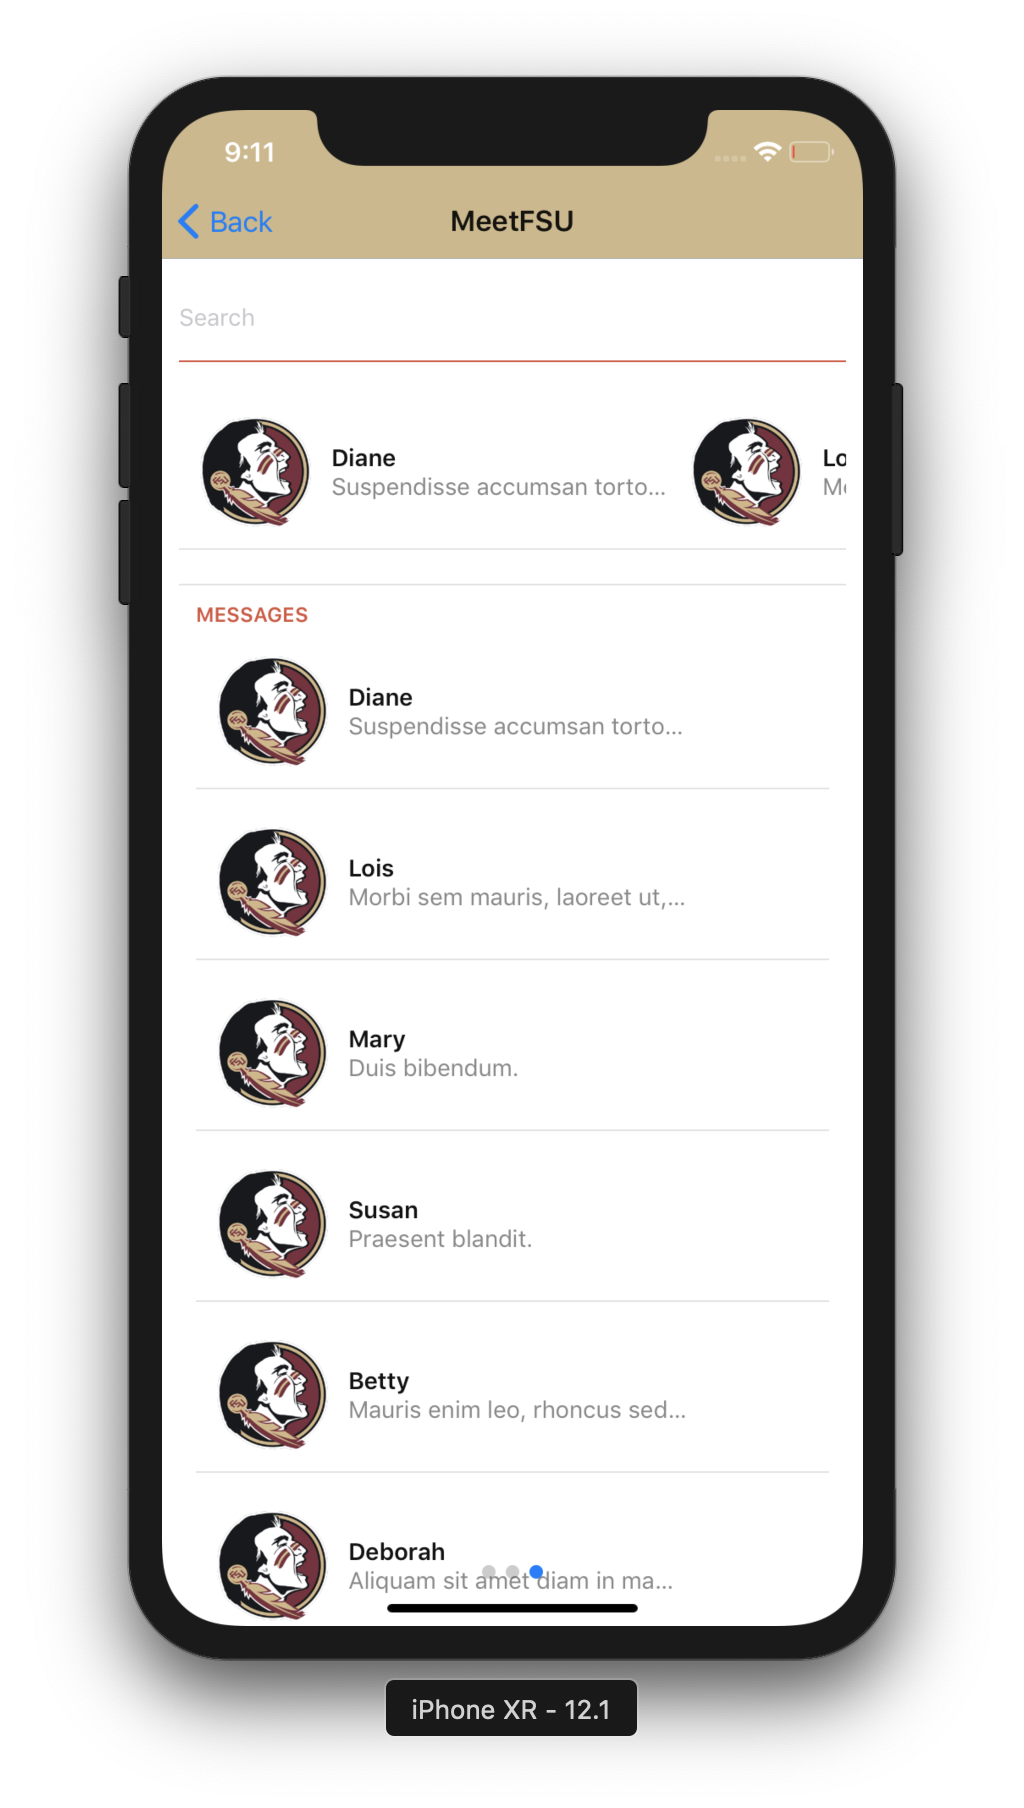
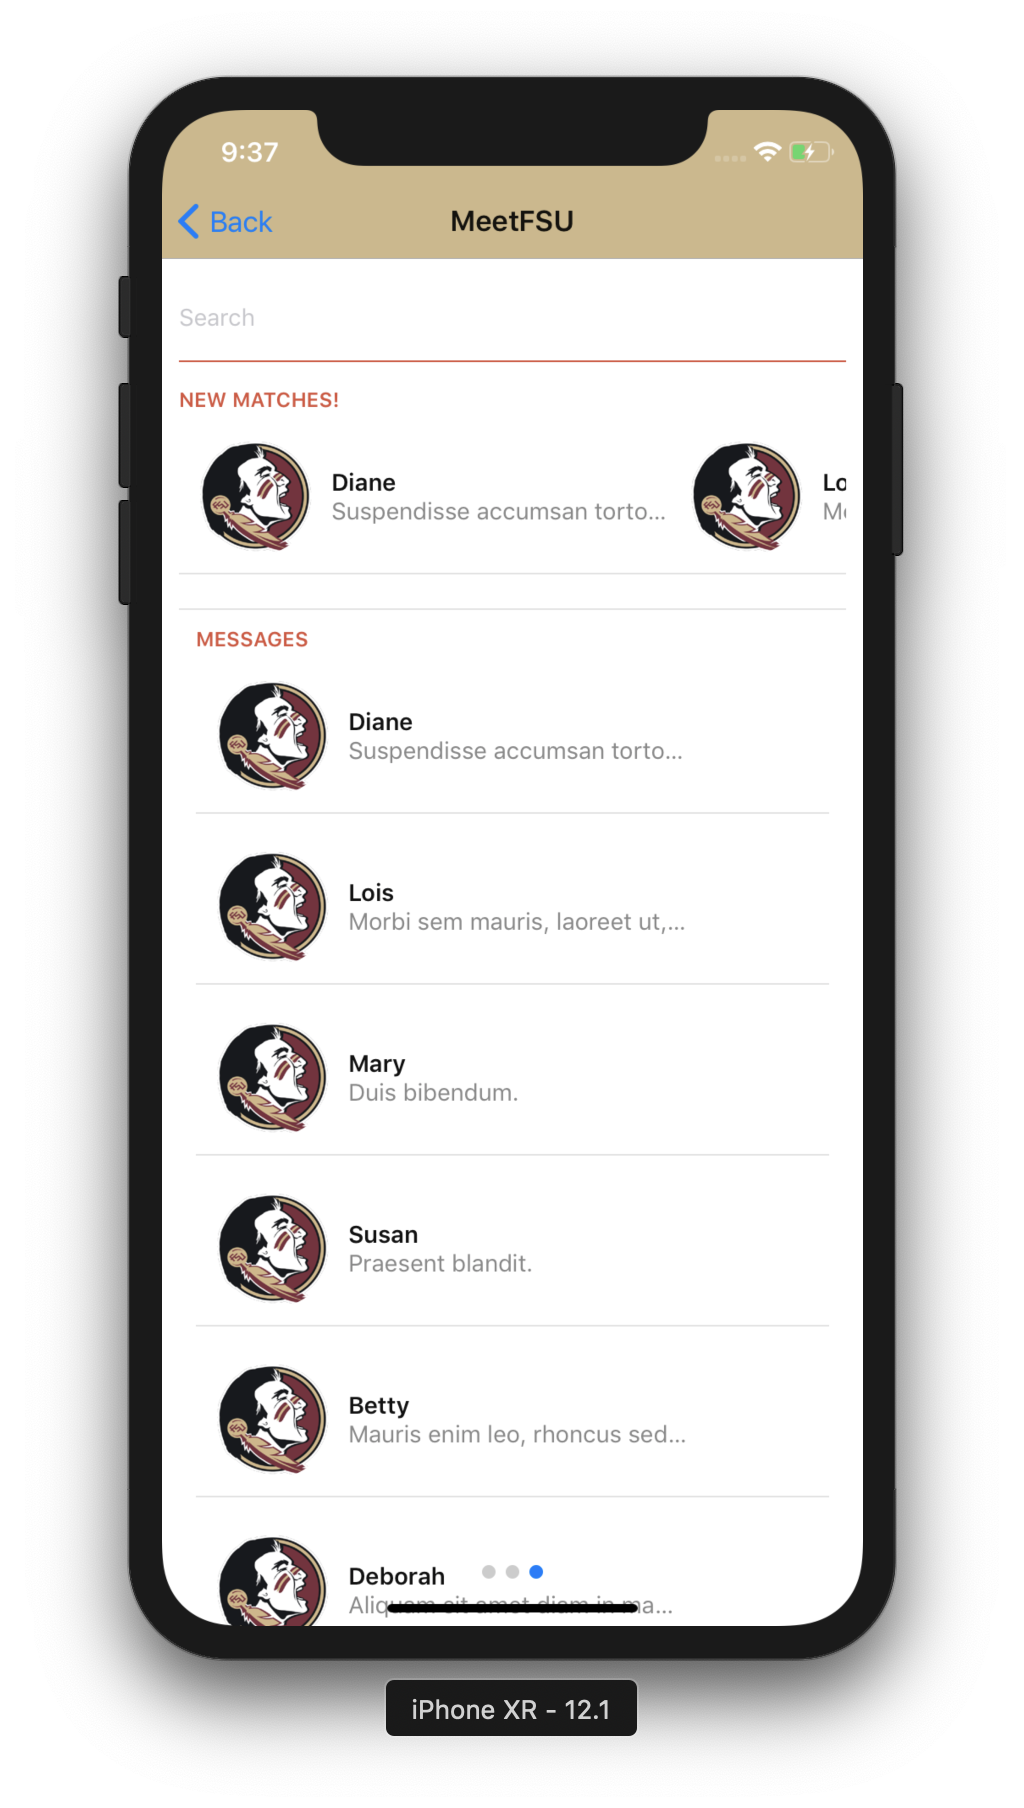
Fixed new matches

Changed region(s): [[0.1875, 0.2168, 0.6562, 0.8982], [0.6562, 0.2168, 0.8438, 0.3097], [0.2188, 0.0619, 0.2812, 0.0929]]

diff --git a/src/components/ChatScreen.js b/src/components/ChatScreen.js
@@ -219,6 +219,7 @@ getMatched = ()=>{
       placeholder="Search"
       />
       <View style={styles.matches}>
+      <Text style = {{color:'#da533c', fontWeight:'600', fontSize:12}}>NEW MATCHES!</Text>
       <ListView
       horizontal={true}
       scrollEnabled = {false}
